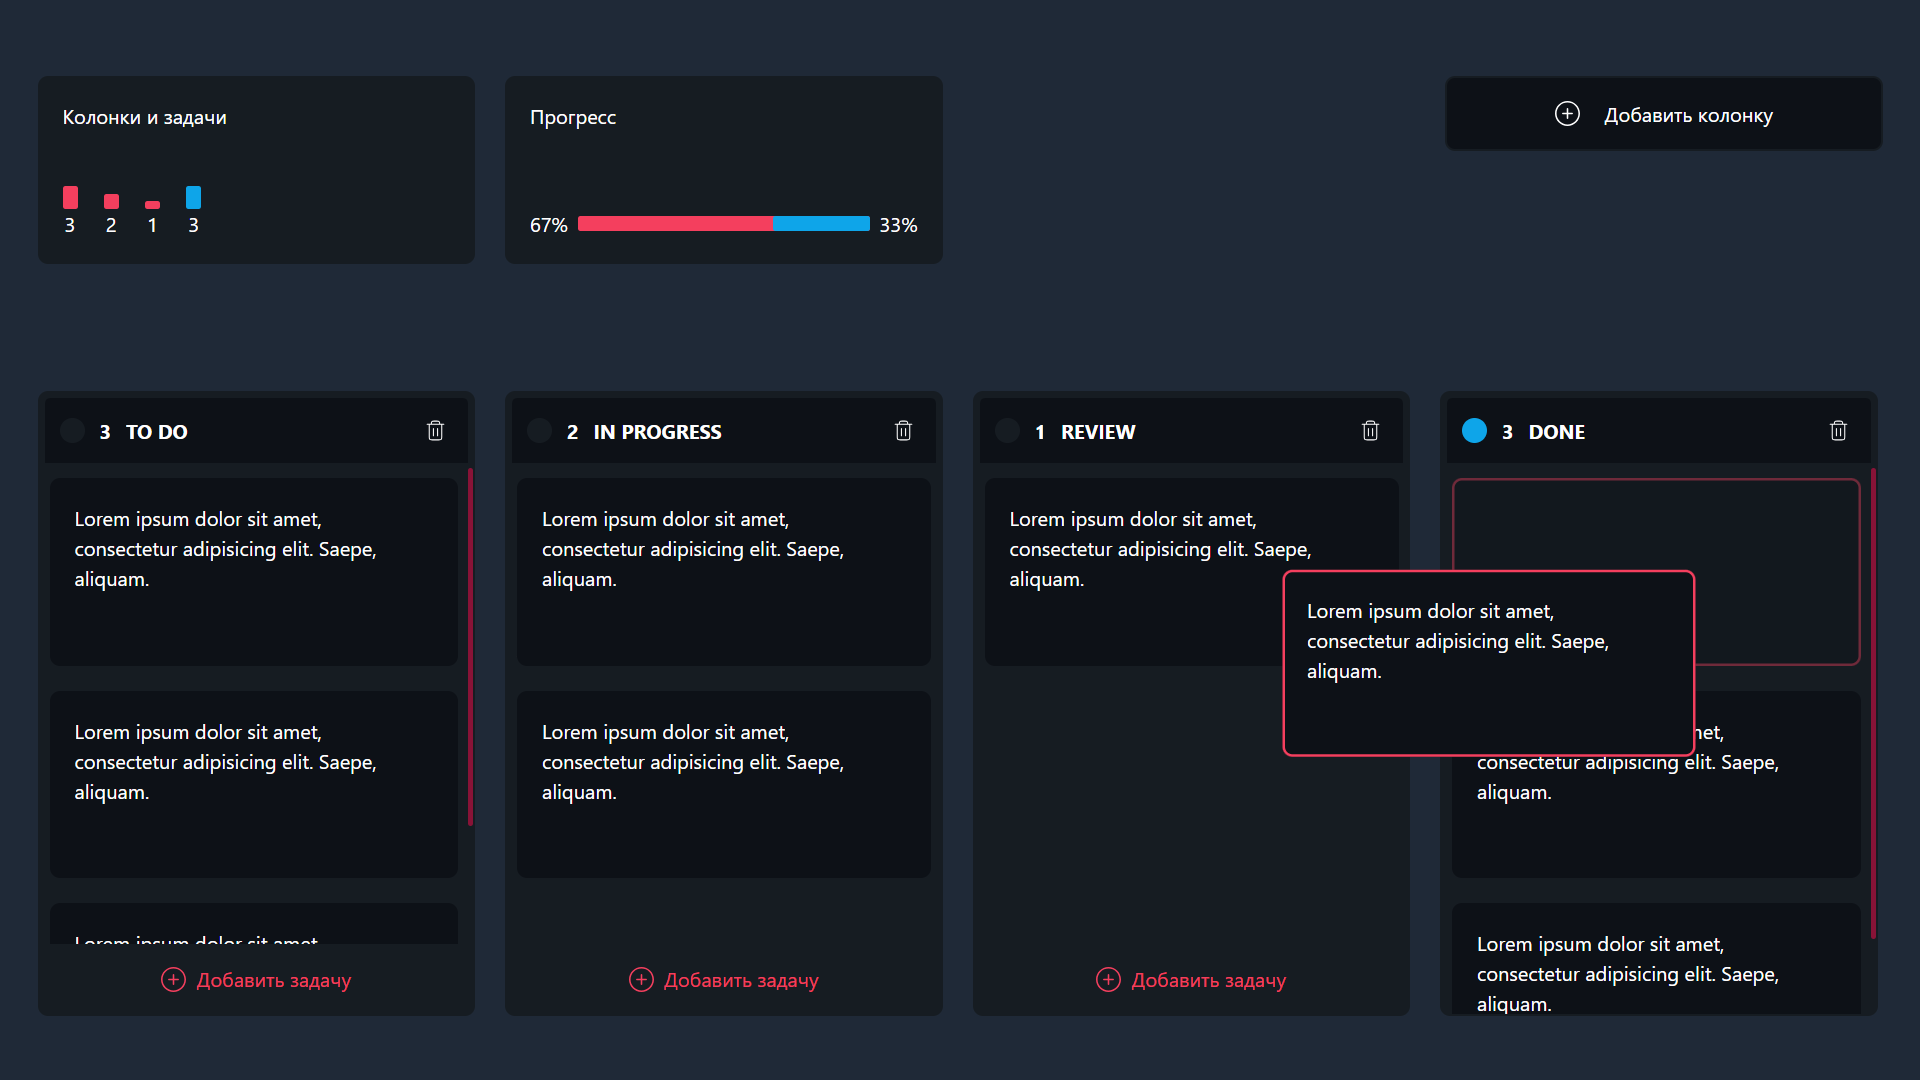
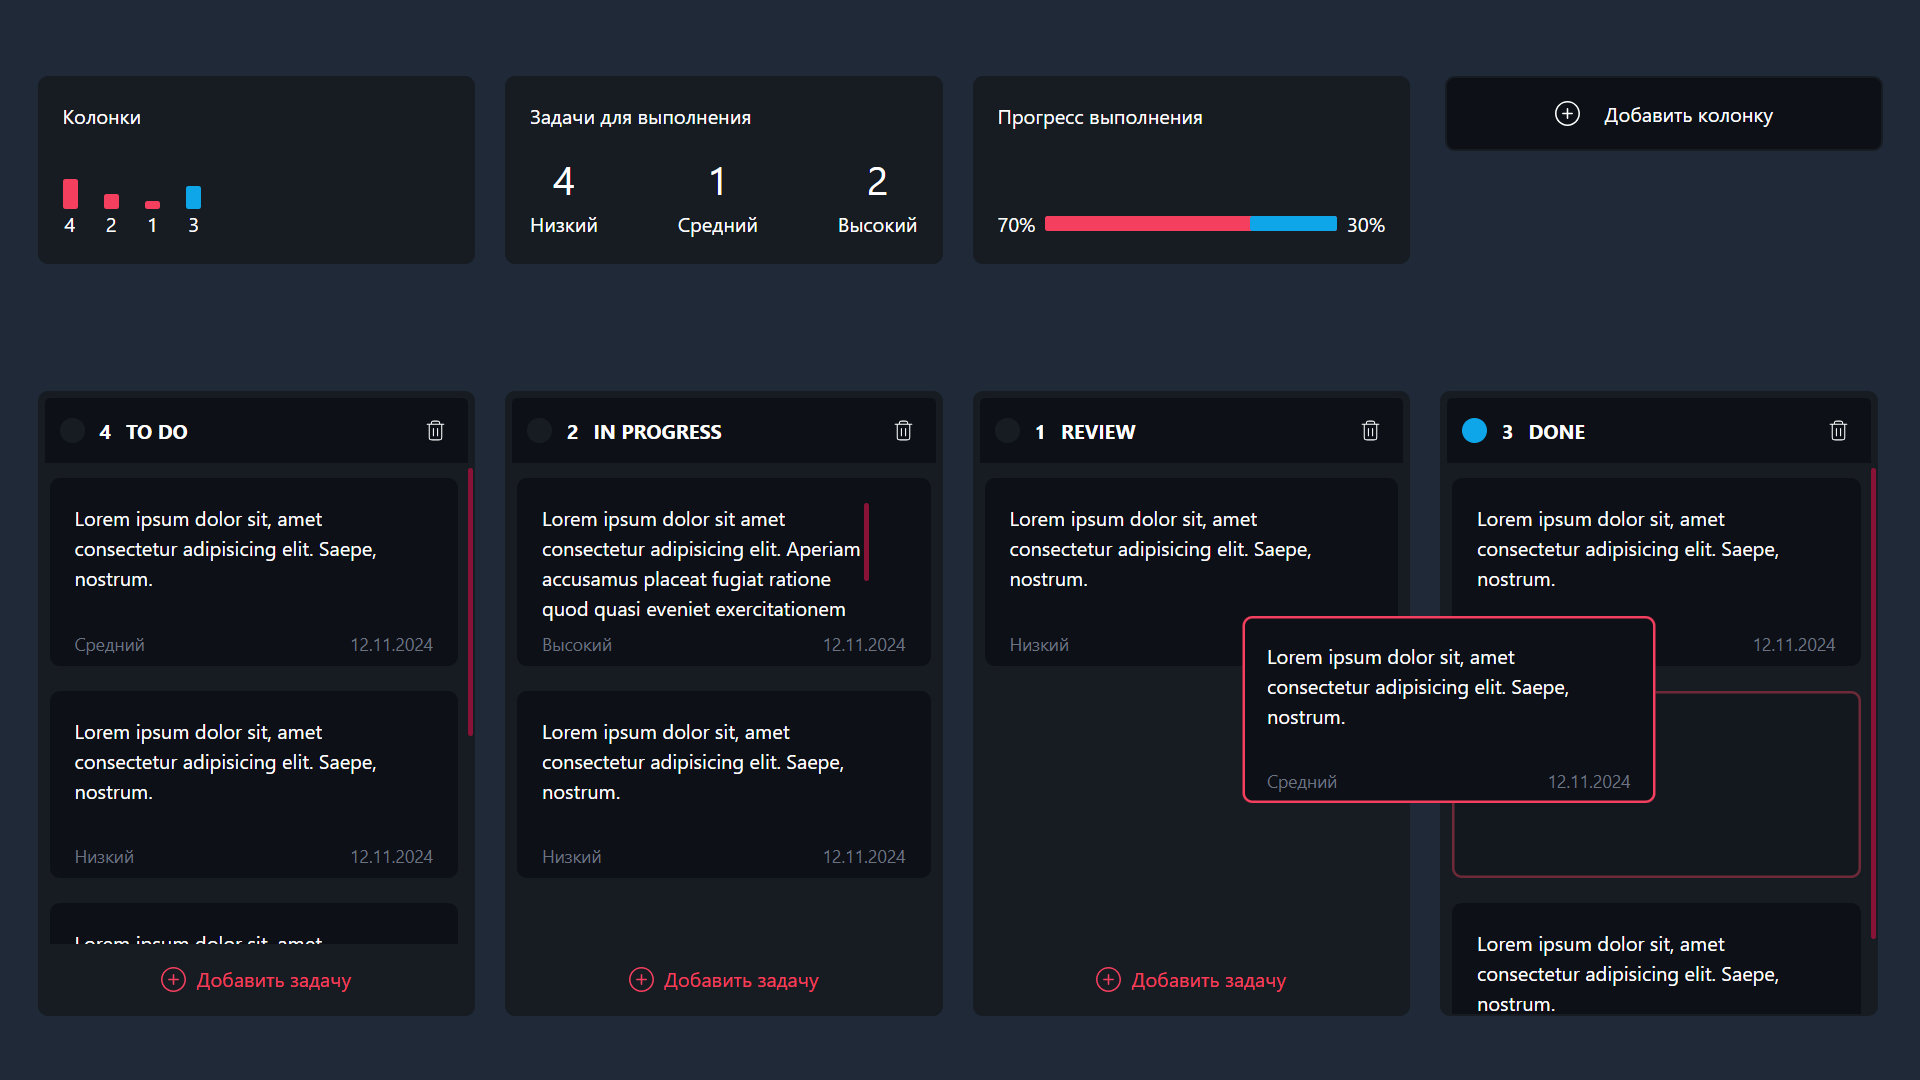
Добавление новой технологии, новое описание, новые ссылки

diff --git a/src/components/AboutMe/AboutMe.tsx b/src/components/AboutMe/AboutMe.tsx
@@ -17,7 +17,10 @@ const AboutMe = () => {
                 </p>
 
                 <p data-aos='fade-down' className={styles['section__description']}>
-                    В настоящее время работаю над разработкой <span>таск-менеджера</span> для управления проектами и задачами, где применяю ранее изученные и новые технологии такие как <b>Vite, Strapi CMS, React Hook Form, Dnd kit</b>. Отвечаю за весь процесс разработки - от дизайна и верстки до настройки серверных контроллеров.
+                    Разработал практичную и функциональную <span>канбан доску с дашбордом</span> в минималистичном дизайне, используя библиотеки <b>Dnd kit, React, TypeScript, Vite, Tailwind</b>.
+                    <br />
+                    <br />
+                    В настоящее время занимаюсь разработкой <span>таск-менеджера</span> для управления проектами и задачами, где применяю ранее изученные и новые технологии такие как <b>Strapi CMS, React Hook Form</b>. Отвечаю за весь процесс разработки - от дизайна и верстки до настройки серверных контроллеров.
                 </p>
                 <div className={styles['section__resume-wrapper']}>
 
@@ -26,7 +29,7 @@ const AboutMe = () => {
                     </div>
 
                     <a
-                        href="https://drive.google.com/file/d/13tSqf5efmV8D9aX0vWMtBis5cqAtXyFV/view?usp=sharing"
+                        href="https://drive.google.com/file/d/1Op3d9AQhihDF7h2LqU0M8Q9ZJgPJY_bt/view?usp=sharing"
                         target='_blank'>
                         <button className={styles['section__resume-link']} data-aos='fade-up'>
                             Посмотреть Резюме

diff --git a/src/components/UI/Logos.tsx b/src/components/UI/Logos.tsx
@@ -17,6 +17,7 @@ import Strapi from '../../assets/logos/strapi.svg?react'
 import Vite from '../../assets/logos/vite.svg?react'
 import Webpack from '../../assets/logos/webpack.svg?react'
 import Axios from '../../assets/logos/axios.svg?react'
+import Tilewind from '../../assets/logos/tailwindcss.svg?react'
 
 import Telegram from '../../assets/icons/telegram.svg?react'
 import GitHub from '../../assets/icons/github.svg?react'
@@ -41,6 +42,7 @@ const svgSkills = [
     Axios,
     Git,
     Figma,
+    Tilewind
 ]
 
 const svgNames = [
@@ -60,6 +62,7 @@ const svgNames = [
     'Axios',
     'Git',
     'Figma',
+    'Tailwind'
 ]
 
 export const svgIcons = {

diff --git a/src/components/Skills/Skills.module.scss b/src/components/Skills/Skills.module.scss
@@ -21,8 +21,8 @@
     &__logos-list {
         // max-width: 930px;
         display: grid;
-        grid-template-columns: 1fr 1fr 1fr 1fr 1fr 1fr 1fr 1fr;
-        grid-template-rows: 1fr 1fr;
+        grid-template-columns: repeat(8, 1fr);
+        grid-auto-rows: auto;
         gap: 25px 0;
 
         padding-bottom: 70px;
